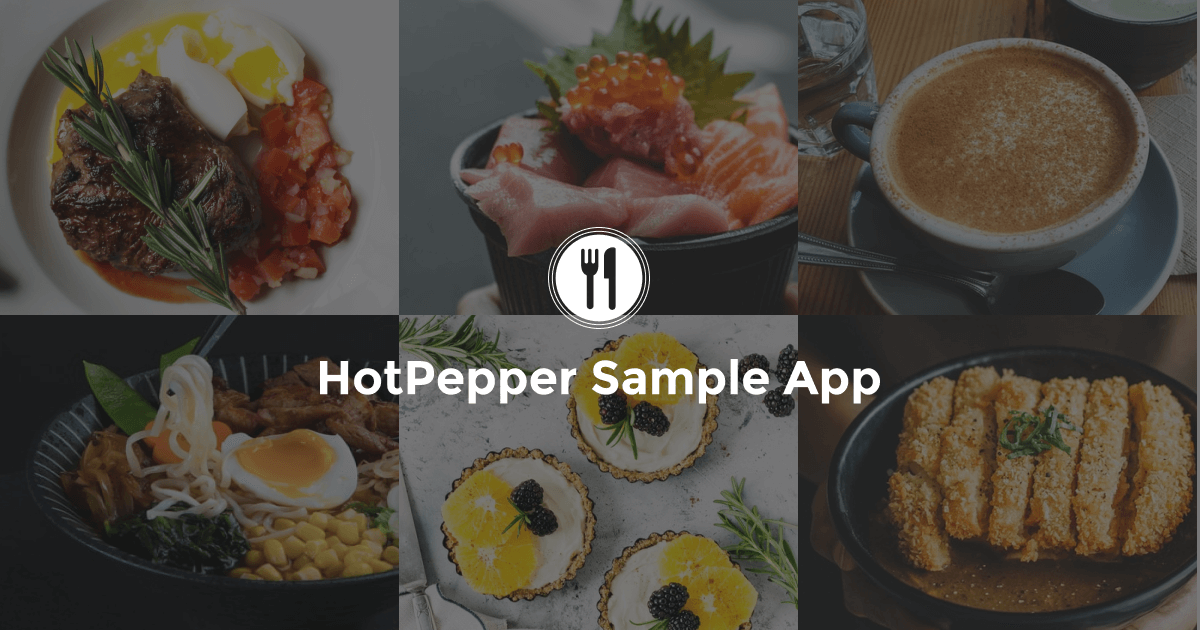
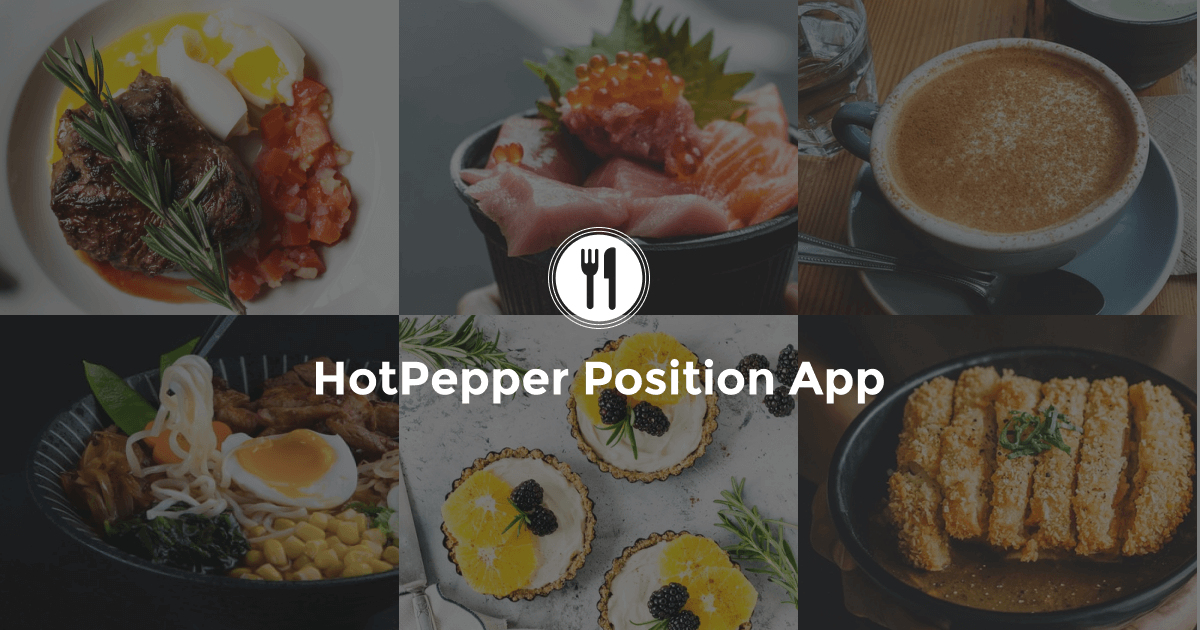
アプリ名変更

Changed region(s): [[0.2467, 0.573, 0.74, 0.6635]]

diff --git a/src/components/Atoms/Logo/index.vue b/src/components/Atoms/Logo/index.vue
@@ -1,13 +1,13 @@
 <template>
   <div :class="classes" @click="onClick">
-    <svg viewBox="0 0 572 82">
-      <path
-        d="M20.8 26.04h6.24V54H20.8V43H9.68v11H3.44V26.04h6.24v11.68H20.8V26.04zM38.109 43.24c0 1.76.493 3.2 1.48 4.32 1.013 1.093 2.293 1.64 3.84 1.64 1.573 0 2.853-.547 3.84-1.64 1.013-1.12 1.52-2.56 1.52-4.32 0-1.76-.507-3.2-1.52-4.32-.987-1.12-2.267-1.68-3.84-1.68-1.547 0-2.827.56-3.84 1.68-.987 1.12-1.48 2.56-1.48 4.32zm16.72 0c0 3.12-1.08 5.747-3.24 7.88s-4.88 3.2-8.16 3.2c-3.254 0-5.96-1.067-8.12-3.2-2.16-2.133-3.24-4.76-3.24-7.88s1.08-5.747 3.24-7.88c2.16-2.16 4.866-3.24 8.12-3.24 3.28 0 6 1.08 8.16 3.24 2.16 2.133 3.24 4.76 3.24 7.88zM66.055 36.8v9.64c0 .827.213 1.48.64 1.96.426.453.933.68 1.52.68 1.12 0 2.066-.507 2.84-1.52l2.24 4.2c-1.867 1.707-3.84 2.56-5.92 2.56-2.054 0-3.8-.68-5.24-2.04-1.414-1.36-2.12-3.213-2.12-5.56V36.8h-2.52v-4.32h2.52v-6.44h6.04v6.44h5.2v4.32h-5.2zM86.992 26.04c4.293 0 7.413.84 9.36 2.52 1.973 1.653 2.96 4.213 2.96 7.68 0 3.44-1.013 5.96-3.04 7.56-2 1.6-5.067 2.4-9.2 2.4h-3.72V54h-6.24V26.04h9.88zm.56 14.76c2.08 0 3.493-.413 4.24-1.24.746-.853 1.12-2.08 1.12-3.68 0-1.627-.494-2.773-1.48-3.44-.96-.693-2.467-1.04-4.52-1.04h-3.56v9.4h4.2zM122.222 50.88c-2.426 2.293-5.28 3.44-8.56 3.44-3.253 0-5.946-1-8.08-3-2.133-2.027-3.2-4.733-3.2-8.12 0-3.387 1.08-6.08 3.24-8.08 2.187-2 4.76-3 7.72-3s5.467.893 7.52 2.68c2.08 1.787 3.12 4.24 3.12 7.36v3.2h-15.68c.187 1.173.8 2.133 1.84 2.88 1.04.747 2.214 1.12 3.52 1.12 2.107 0 3.84-.707 5.2-2.12l3.36 3.64zm-4.32-9.8c-.133-1.28-.613-2.267-1.44-2.96-.826-.693-1.84-1.04-3.04-1.04-1.173 0-2.253.36-3.24 1.08-.986.72-1.56 1.693-1.72 2.92h9.44zM140.829 32.12c2.506 0 4.733 1.053 6.68 3.16 1.973 2.08 2.96 4.707 2.96 7.88s-.987 5.827-2.96 7.96c-1.947 2.133-4.24 3.2-6.88 3.2-2.614 0-4.72-1.053-6.32-3.16v10.6h-6V32.48h6v2.4c1.84-1.84 4.013-2.76 6.52-2.76zm-6.6 11.16c0 1.733.48 3.16 1.44 4.28.986 1.093 2.173 1.64 3.56 1.64 1.386 0 2.6-.547 3.64-1.64 1.04-1.12 1.56-2.547 1.56-4.28s-.507-3.187-1.52-4.36c-1.014-1.173-2.227-1.76-3.64-1.76-1.414 0-2.614.587-3.6 1.76-.96 1.147-1.44 2.6-1.44 4.36zM167.469 32.12c2.507 0 4.734 1.053 6.68 3.16 1.974 2.08 2.96 4.707 2.96 7.88s-.986 5.827-2.96 7.96c-1.946 2.133-4.24 3.2-6.88 3.2-2.613 0-4.72-1.053-6.32-3.16v10.6h-6V32.48h6v2.4c1.84-1.84 4.014-2.76 6.52-2.76zm-6.6 11.16c0 1.733.48 3.16 1.44 4.28.987 1.093 2.174 1.64 3.56 1.64 1.387 0 2.6-.547 3.64-1.64 1.04-1.12 1.56-2.547 1.56-4.28s-.506-3.187-1.52-4.36c-1.013-1.173-2.226-1.76-3.64-1.76-1.413 0-2.613.587-3.6 1.76-.96 1.147-1.44 2.6-1.44 4.36zM200.23 50.88c-2.427 2.293-5.28 3.44-8.56 3.44-3.253 0-5.947-1-8.08-3-2.133-2.027-3.2-4.733-3.2-8.12 0-3.387 1.08-6.08 3.24-8.08 2.187-2 4.76-3 7.72-3s5.467.893 7.52 2.68c2.08 1.787 3.12 4.24 3.12 7.36v3.2h-15.68c.187 1.173.8 2.133 1.84 2.88 1.04.747 2.213 1.12 3.52 1.12 2.107 0 3.84-.707 5.2-2.12l3.36 3.64zm-4.32-9.8c-.133-1.28-.613-2.267-1.44-2.96-.827-.693-1.84-1.04-3.04-1.04-1.173 0-2.253.36-3.24 1.08-.987.72-1.56 1.693-1.72 2.92h9.44zM217.637 37.76c-1.787 0-3.12.64-4 1.92-.88 1.253-1.32 2.92-1.32 5V54h-6V32.48h6v2.84c.773-.88 1.733-1.627 2.88-2.24 1.173-.613 2.36-.933 3.56-.96l.04 5.64h-1.16zM242.909 30.88c-1.04 0-1.867.253-2.48.76-.587.48-.88 1.133-.88 1.96 0 .8.36 1.44 1.08 1.92.746.48 2.44 1.053 5.08 1.72 2.666.64 4.733 1.613 6.2 2.92 1.466 1.307 2.2 3.213 2.2 5.72 0 2.507-.947 4.547-2.84 6.12-1.867 1.547-4.334 2.32-7.4 2.32-4.427 0-8.414-1.64-11.96-4.92l3.72-4.56c3.013 2.64 5.8 3.96 8.36 3.96 1.146 0 2.04-.24 2.68-.72.666-.507 1-1.173 1-2 0-.853-.347-1.52-1.04-2-.694-.507-2.067-1.013-4.12-1.52-3.254-.773-5.64-1.773-7.16-3-1.494-1.253-2.24-3.2-2.24-5.84 0-2.667.946-4.72 2.84-6.16 1.92-1.44 4.306-2.16 7.16-2.16 1.866 0 3.733.32 5.6.96 1.866.64 3.493 1.547 4.88 2.72l-3.16 4.56c-2.427-1.84-4.934-2.76-7.52-2.76zM277.097 54h-5.64v-2.6c-1.547 1.947-3.467 2.92-5.76 2.92-2.267 0-4.174-.653-5.72-1.96-1.547-1.333-2.32-3.093-2.32-5.28 0-2.213.8-3.867 2.4-4.96 1.6-1.093 3.786-1.64 6.56-1.64h4.48v-.12c0-2.293-1.214-3.44-3.64-3.44-1.04 0-2.147.213-3.32.64-1.147.4-2.12.907-2.92 1.52l-2.68-3.88c2.826-2.053 6.053-3.08 9.68-3.08 2.613 0 4.746.653 6.4 1.96 1.653 1.307 2.48 3.373 2.48 6.2V54zm-6.04-8.2v-1.04h-3.76c-2.4 0-3.6.747-3.6 2.24 0 .773.28 1.373.84 1.8.586.4 1.413.6 2.48.6 1.066 0 2-.32 2.8-.96.826-.667 1.24-1.547 1.24-2.64zM302.327 42.4V54h-6.04V42.24c0-1.707-.267-2.96-.8-3.76-.507-.8-1.347-1.2-2.52-1.2-1.147 0-2.174.44-3.08 1.32-.88.853-1.32 2.12-1.32 3.8V54h-6V32.48h6v2.44c1.653-1.867 3.546-2.8 5.68-2.8 1.36 0 2.586.4 3.68 1.2 1.12.8 1.96 1.773 2.52 2.92a8.476 8.476 0 013.32-3.04c1.413-.72 2.826-1.08 4.24-1.08 2.533 0 4.573.76 6.12 2.28 1.546 1.493 2.32 3.667 2.32 6.52V54h-6.04V42.24c0-3.307-1.214-4.96-3.64-4.96-1.2 0-2.24.44-3.12 1.32-.88.853-1.32 2.12-1.32 3.8zM334.422 32.12c2.507 0 4.734 1.053 6.681 3.16 1.973 2.08 2.959 4.707 2.959 7.88s-.986 5.827-2.959 7.96c-1.947 2.133-4.24 3.2-6.88 3.2-2.614 0-4.721-1.053-6.321-3.16v10.6h-6V32.48h6v2.4c1.84-1.84 4.014-2.76 6.52-2.76zm-6.599 11.16c0 1.733.48 3.16 1.44 4.28.986 1.093 2.173 1.64 3.56 1.64 1.386 0 2.599-.547 3.639-1.64 1.04-1.12 1.56-2.547 1.56-4.28s-.506-3.187-1.519-4.36c-1.014-1.173-2.227-1.76-3.641-1.76-1.413 0-2.613.587-3.599 1.76-.96 1.147-1.44 2.6-1.44 4.36zM354.543 54h-6V24.32h6V54zM378.863 50.88c-2.427 2.293-5.28 3.44-8.56 3.44-3.254 0-5.947-1-8.08-3-2.134-2.027-3.2-4.733-3.2-8.12 0-3.387 1.08-6.08 3.24-8.08 2.186-2 4.76-3 7.72-3s5.466.893 7.52 2.68c2.08 1.787 3.12 4.24 3.12 7.36v3.2h-15.68c.186 1.173.8 2.133 1.84 2.88 1.04.747 2.213 1.12 3.52 1.12 2.106 0 3.84-.707 5.2-2.12l3.36 3.64zm-4.32-9.8c-.134-1.28-.614-2.267-1.44-2.96-.827-.693-1.84-1.04-3.04-1.04-1.174 0-2.254.36-3.24 1.08-.987.72-1.56 1.693-1.72 2.92h9.44zM416.016 54l-2.6-6.04h-11.72l-2.6 6.04h-6.64l12.08-27.96h6.04L422.656 54h-6.64zm-8.44-19.64l-3.52 8.12h7l-3.48-8.12zM437.821 32.12c2.507 0 4.733 1.053 6.68 3.16 1.973 2.08 2.96 4.707 2.96 7.88s-.987 5.827-2.96 7.96c-1.947 2.133-4.24 3.2-6.88 3.2-2.613 0-4.72-1.053-6.32-3.16v10.6h-6V32.48h6v2.4c1.84-1.84 4.013-2.76 6.52-2.76zm-6.6 11.16c0 1.733.48 3.16 1.44 4.28.987 1.093 2.173 1.64 3.56 1.64s2.6-.547 3.64-1.64c1.04-1.12 1.56-2.547 1.56-4.28s-.507-3.187-1.52-4.36c-1.013-1.173-2.227-1.76-3.64-1.76-1.413 0-2.613.587-3.6 1.76-.96 1.147-1.44 2.6-1.44 4.36zM464.462 32.12c2.506 0 4.733 1.053 6.68 3.16 1.973 2.08 2.96 4.707 2.96 7.88s-.987 5.827-2.96 7.96c-1.947 2.133-4.24 3.2-6.88 3.2-2.614 0-4.72-1.053-6.32-3.16v10.6h-6V32.48h6v2.4c1.84-1.84 4.013-2.76 6.52-2.76zm-6.6 11.16c0 1.733.48 3.16 1.44 4.28.986 1.093 2.173 1.64 3.56 1.64 1.386 0 2.6-.547 3.64-1.64 1.04-1.12 1.56-2.547 1.56-4.28s-.507-3.187-1.52-4.36c-1.014-1.173-2.227-1.76-3.64-1.76-1.414 0-2.614.587-3.6 1.76-.96 1.147-1.44 2.6-1.44 4.36z"
-      />
+    <svg viewBox="0 0 569 64">
       <path
         fill-rule="evenodd"
         clip-rule="evenodd"
-        d="M532 79c21.539 0 39-17.46 39-39S553.539 1 532 1s-39 17.46-39 39 17.461 39 39 39zm0 1c22.091 0 40-17.909 40-40S554.091 0 532 0s-40 17.909-40 40 17.909 40 40 40zm0-4c19.882 0 36-16.118 36-36S551.882 4 532 4s-36 16.118-36 36 16.118 36 36 36zm0 1c20.435 0 37-16.566 37-37S552.435 3 532 3s-37 16.566-37 37 16.565 37 37 37zm34-37c0 18.778-15.222 34-34 34s-34-15.222-34-34 15.222-34 34-34 34 15.222 34 34zm-26.345.362h-3.072a.648.648 0 01-.475-.2.65.65 0 01-.201-.477V22.767c0-1.86.663-3.454 1.988-4.78 1.325-1.324 2.918-1.987 4.779-1.987h.973c.366 0 .683.134.951.402.268.268.402.586.402.951v44.939c0 .733-.268 1.367-.804 1.903-.527.527-1.151.792-1.869.8-.718-.008-1.341-.273-1.869-.8-.535-.535-.803-1.17-.803-1.903v-21.93zm-17.283 21.374V37.904c-.804-.282-4.372-1.918-4.372-8.127V18.464c0-.366.134-.683.402-.952.267-.267.584-.402.951-.402s.684.135.952.402c.268.268.402.586.402.952v8.797c0 .366.133.684.402.951.267.269.584.402.951.402.366 0 .683-.133.952-.402.267-.267.401-.584.401-.951v-8.797c0-.366.134-.683.402-.952.268-.267.585-.402.952-.402a1.3 1.3 0 01.951.402c.268.268.402.586.402.952v8.797c0 .366.135.684.402.951a1.3 1.3 0 00.952.402 1.3 1.3 0 00.951-.402 1.3 1.3 0 00.402-.951v-8.797c0-.366.134-.683.402-.952.267-.267.584-.402.951-.402.366 0 .684.135.952.402.267.268.402.586.402.952v11.314c0 6.1-3.013 7.845-3.817 8.126v23.832c0 .734-.268 1.368-.803 1.904-.528.527-1.152.792-1.869.8-.719-.008-1.342-.273-1.869-.8-.536-.536-.804-1.17-.804-1.904z"
+        d="M32 63.2c17.231 0 31.2-13.969 31.2-31.2S49.231.8 32 .8.8 14.769.8 32 14.769 63.2 32 63.2zm0 .8c17.673 0 32-14.327 32-32C64 14.327 49.673 0 32 0 14.327 0 0 14.327 0 32c0 17.673 14.327 32 32 32zm0-3.2c15.906 0 28.8-12.894 28.8-28.8S47.906 3.2 32 3.2 3.2 16.094 3.2 32 16.094 60.8 32 60.8zm0 .8c16.348 0 29.6-13.252 29.6-29.6S48.348 2.4 32 2.4 2.4 15.652 2.4 32 15.652 61.6 32 61.6zM59.2 32c0 15.022-12.178 27.2-27.2 27.2C16.978 59.2 4.8 47.022 4.8 32 4.8 16.978 16.978 4.8 32 4.8c15.022 0 27.2 12.178 27.2 27.2zm-21.076.29h-2.458a.519.519 0 01-.38-.161.52.52 0 01-.16-.38V18.213c0-1.489.53-2.763 1.59-3.824 1.06-1.06 2.334-1.59 3.823-1.59h.779c.293 0 .546.107.76.321.215.215.322.469.322.762v35.95c0 .587-.214 1.095-.643 1.523a2.082 2.082 0 01-1.495.64 2.08 2.08 0 01-1.495-.64 2.08 2.08 0 01-.643-1.523V32.29zm-13.826 17.1V30.322c-.643-.226-3.498-1.534-3.498-6.501V14.77c0-.293.107-.546.322-.761a1.04 1.04 0 01.76-.322c.294 0 .548.108.762.322.214.214.321.468.321.76v7.039c0 .293.107.547.322.761.214.215.468.321.761.321s.547-.106.761-.321a1.04 1.04 0 00.322-.761V14.77c0-.293.107-.546.321-.761a1.04 1.04 0 01.761-.322c.293 0 .547.108.762.322.214.214.321.468.321.76v7.039c0 .293.108.547.322.761.214.215.467.321.76.321.294 0 .547-.106.762-.321a1.04 1.04 0 00.322-.761V14.77c0-.293.107-.546.321-.761a1.04 1.04 0 01.761-.322c.293 0 .547.108.761.322.215.214.322.468.322.76v9.052c0 4.881-2.41 6.276-3.054 6.501V49.39a2.08 2.08 0 01-.642 1.523 2.081 2.081 0 01-1.495.64 2.079 2.079 0 01-1.495-.64 2.08 2.08 0 01-.643-1.523z"
+      />
+      <path
+        d="M101.36 15.3h6.24v27.96h-6.24v-11H90.24v11H84V15.3h6.24v11.68h11.12V15.3zM118.669 32.5c0 1.76.493 3.2 1.48 4.32 1.013 1.093 2.293 1.64 3.84 1.64 1.573 0 2.853-.547 3.84-1.64 1.013-1.12 1.52-2.56 1.52-4.32 0-1.76-.507-3.2-1.52-4.32-.987-1.12-2.267-1.68-3.84-1.68-1.547 0-2.827.56-3.84 1.68-.987 1.12-1.48 2.56-1.48 4.32zm16.72 0c0 3.12-1.08 5.747-3.24 7.88s-4.88 3.2-8.16 3.2c-3.254 0-5.96-1.067-8.12-3.2-2.16-2.133-3.24-4.76-3.24-7.88s1.08-5.747 3.24-7.88c2.16-2.16 4.866-3.24 8.12-3.24 3.28 0 6 1.08 8.16 3.24 2.16 2.133 3.24 4.76 3.24 7.88zM146.615 26.06v9.64c0 .827.213 1.48.64 1.96.426.453.933.68 1.52.68 1.12 0 2.066-.507 2.84-1.52l2.24 4.2c-1.867 1.707-3.84 2.56-5.92 2.56-2.054 0-3.8-.68-5.24-2.04-1.414-1.36-2.12-3.213-2.12-5.56v-9.92h-2.52v-4.32h2.52V15.3h6.04v6.44h5.2v4.32h-5.2zM167.552 15.3c4.293 0 7.413.84 9.36 2.52 1.973 1.653 2.96 4.213 2.96 7.68 0 3.44-1.013 5.96-3.04 7.56-2 1.6-5.067 2.4-9.2 2.4h-3.72v7.8h-6.24V15.3h9.88zm.56 14.76c2.08 0 3.493-.413 4.24-1.24.747-.853 1.12-2.08 1.12-3.68 0-1.627-.493-2.773-1.48-3.44-.96-.693-2.467-1.04-4.52-1.04h-3.56v9.4h4.2zM202.782 40.14c-2.426 2.293-5.28 3.44-8.56 3.44-3.253 0-5.946-1-8.08-3-2.133-2.027-3.2-4.733-3.2-8.12 0-3.387 1.08-6.08 3.24-8.08 2.187-2 4.76-3 7.72-3s5.467.893 7.52 2.68c2.08 1.787 3.12 4.24 3.12 7.36v3.2h-15.68c.187 1.173.8 2.133 1.84 2.88 1.04.747 2.214 1.12 3.52 1.12 2.107 0 3.84-.707 5.2-2.12l3.36 3.64zm-4.32-9.8c-.133-1.28-.613-2.267-1.44-2.96-.826-.693-1.84-1.04-3.04-1.04-1.173 0-2.253.36-3.24 1.08-.986.72-1.56 1.693-1.72 2.92h9.44zM221.389 21.38c2.506 0 4.733 1.053 6.68 3.16 1.973 2.08 2.96 4.707 2.96 7.88s-.987 5.827-2.96 7.96c-1.947 2.133-4.24 3.2-6.88 3.2-2.614 0-4.72-1.053-6.32-3.16v10.6h-6V21.74h6v2.4c1.84-1.84 4.013-2.76 6.52-2.76zm-6.6 11.16c0 1.733.48 3.16 1.44 4.28.986 1.093 2.173 1.64 3.56 1.64 1.386 0 2.6-.547 3.64-1.64 1.04-1.12 1.56-2.547 1.56-4.28s-.507-3.187-1.52-4.36c-1.014-1.173-2.227-1.76-3.64-1.76-1.414 0-2.614.587-3.6 1.76-.96 1.147-1.44 2.6-1.44 4.36zM248.029 21.38c2.507 0 4.734 1.053 6.68 3.16 1.974 2.08 2.96 4.707 2.96 7.88s-.986 5.827-2.96 7.96c-1.946 2.133-4.24 3.2-6.88 3.2-2.613 0-4.72-1.053-6.32-3.16v10.6h-6V21.74h6v2.4c1.84-1.84 4.014-2.76 6.52-2.76zm-6.6 11.16c0 1.733.48 3.16 1.44 4.28.987 1.093 2.174 1.64 3.56 1.64 1.387 0 2.6-.547 3.64-1.64 1.04-1.12 1.56-2.547 1.56-4.28s-.506-3.187-1.52-4.36c-1.013-1.173-2.226-1.76-3.64-1.76-1.413 0-2.613.587-3.6 1.76-.96 1.147-1.44 2.6-1.44 4.36zM280.79 40.14c-2.427 2.293-5.28 3.44-8.56 3.44-3.253 0-5.947-1-8.08-3-2.133-2.027-3.2-4.733-3.2-8.12 0-3.387 1.08-6.08 3.24-8.08 2.187-2 4.76-3 7.72-3s5.467.893 7.52 2.68c2.08 1.787 3.12 4.24 3.12 7.36v3.2h-15.68c.187 1.173.8 2.133 1.84 2.88 1.04.747 2.213 1.12 3.52 1.12 2.107 0 3.84-.707 5.2-2.12l3.36 3.64zm-4.32-9.8c-.133-1.28-.613-2.267-1.44-2.96-.827-.693-1.84-1.04-3.04-1.04-1.173 0-2.253.36-3.24 1.08-.987.72-1.56 1.693-1.72 2.92h9.44zM298.197 27.02c-1.787 0-3.12.64-4 1.92-.88 1.253-1.32 2.92-1.32 5v9.32h-6V21.74h6v2.84c.773-.88 1.733-1.627 2.88-2.24 1.173-.613 2.36-.933 3.56-.96l.04 5.64h-1.16zM324.349 15.3c4.293 0 7.413.84 9.36 2.52 1.973 1.653 2.96 4.213 2.96 7.68 0 3.44-1.014 5.96-3.04 7.56-2 1.6-5.067 2.4-9.2 2.4h-3.72v7.8h-6.24V15.3h9.88zm.56 14.76c2.08 0 3.493-.413 4.24-1.24.746-.853 1.12-2.08 1.12-3.68 0-1.627-.494-2.773-1.48-3.44-.96-.693-2.467-1.04-4.52-1.04h-3.56v9.4h4.2zM345.466 32.5c0 1.76.493 3.2 1.48 4.32 1.013 1.093 2.293 1.64 3.84 1.64 1.573 0 2.853-.547 3.84-1.64 1.013-1.12 1.52-2.56 1.52-4.32 0-1.76-.507-3.2-1.52-4.32-.987-1.12-2.267-1.68-3.84-1.68-1.547 0-2.827.56-3.84 1.68-.987 1.12-1.48 2.56-1.48 4.32zm16.72 0c0 3.12-1.08 5.747-3.24 7.88s-4.88 3.2-8.16 3.2c-3.254 0-5.96-1.067-8.12-3.2-2.16-2.133-3.24-4.76-3.24-7.88s1.08-5.747 3.24-7.88c2.16-2.16 4.866-3.24 8.12-3.24 3.28 0 6 1.08 8.16 3.24 2.16 2.133 3.24 4.76 3.24 7.88zM382.647 36.58c0 2.107-.787 3.8-2.36 5.08-1.547 1.28-3.52 1.92-5.92 1.92-1.6 0-3.267-.28-5-.84a15.081 15.081 0 01-4.68-2.56l2.64-3.76c2.24 1.733 4.627 2.6 7.16 2.6.773 0 1.387-.147 1.84-.44.453-.32.68-.733.68-1.24s-.32-.973-.96-1.4c-.613-.427-1.52-.827-2.72-1.2-1.173-.373-2.08-.693-2.72-.96-.613-.267-1.32-.653-2.12-1.16-1.627-1.013-2.44-2.507-2.44-4.48 0-2 .8-3.627 2.4-4.88 1.6-1.253 3.667-1.88 6.2-1.88 2.533 0 5.067.853 7.6 2.56l-2.24 4c-1.867-1.28-3.733-1.92-5.6-1.92-1.84 0-2.76.507-2.76 1.52 0 .56.293 1 .88 1.32.587.32 1.56.693 2.92 1.12 1.36.427 2.32.76 2.88 1 .587.213 1.28.56 2.08 1.04 1.493.907 2.24 2.427 2.24 4.56zM393.228 43.26h-6V21.74h6v21.52zm-5.52-24.24c-.667-.693-1-1.533-1-2.52 0-.987.333-1.813 1-2.48.693-.693 1.533-1.04 2.52-1.04.987 0 1.813.347 2.48 1.04.693.667 1.04 1.493 1.04 2.48 0 .987-.347 1.827-1.04 2.52-.667.667-1.493 1-2.48 1-.987 0-1.827-.333-2.52-1zM406.068 26.06v9.64c0 .827.213 1.48.64 1.96.426.453.933.68 1.52.68 1.12 0 2.066-.507 2.84-1.52l2.24 4.2c-1.867 1.707-3.84 2.56-5.92 2.56-2.054 0-3.8-.68-5.24-2.04-1.414-1.36-2.12-3.213-2.12-5.56v-9.92h-2.52v-4.32h2.52V15.3h6.04v6.44h5.2v4.32h-5.2zM422.525 43.26h-6V21.74h6v21.52zm-5.52-24.24c-.667-.693-1-1.533-1-2.52 0-.987.333-1.813 1-2.48.693-.693 1.533-1.04 2.52-1.04.987 0 1.813.347 2.48 1.04.693.667 1.04 1.493 1.04 2.48 0 .987-.347 1.827-1.04 2.52-.667.667-1.493 1-2.48 1-.987 0-1.827-.333-2.52-1zM433.005 32.5c0 1.76.493 3.2 1.48 4.32 1.013 1.093 2.293 1.64 3.84 1.64 1.573 0 2.853-.547 3.84-1.64 1.013-1.12 1.52-2.56 1.52-4.32 0-1.76-.507-3.2-1.52-4.32-.987-1.12-2.267-1.68-3.84-1.68-1.547 0-2.827.56-3.84 1.68-.987 1.12-1.48 2.56-1.48 4.32zm16.72 0c0 3.12-1.08 5.747-3.24 7.88s-4.88 3.2-8.16 3.2c-3.254 0-5.96-1.067-8.12-3.2-2.16-2.133-3.24-4.76-3.24-7.88s1.08-5.747 3.24-7.88c2.16-2.16 4.866-3.24 8.12-3.24 3.28 0 6 1.08 8.16 3.24 2.16 2.133 3.24 4.76 3.24 7.88zM460.181 31.26v12h-6V21.74h6v2.4c1.814-1.84 3.854-2.76 6.12-2.76 2.267 0 4.16.8 5.68 2.4 1.547 1.6 2.32 3.733 2.32 6.4v13.08h-6V31.1c0-3.307-1.213-4.96-3.64-4.96-1.2 0-2.253.44-3.16 1.32-.88.853-1.32 2.12-1.32 3.8zM510.795 43.26l-2.6-6.04h-11.72l-2.6 6.04h-6.64l12.08-27.96h6.04l12.08 27.96h-6.64zm-8.44-19.64l-3.52 8.12h7l-3.48-8.12zM532.6 21.38c2.506 0 4.733 1.053 6.68 3.16 1.973 2.08 2.96 4.707 2.96 7.88s-.987 5.827-2.96 7.96c-1.947 2.133-4.24 3.2-6.88 3.2-2.614 0-4.72-1.053-6.32-3.16v10.6h-6V21.74h6v2.4c1.84-1.84 4.013-2.76 6.52-2.76zM526 32.54c0 1.733.48 3.16 1.44 4.28.986 1.093 2.173 1.64 3.56 1.64 1.386 0 2.6-.547 3.64-1.64 1.04-1.12 1.56-2.547 1.56-4.28s-.507-3.187-1.52-4.36c-1.014-1.173-2.227-1.76-3.64-1.76-1.414 0-2.614.587-3.6 1.76-.96 1.147-1.44 2.6-1.44 4.36zM559.24 21.38c2.507 0 4.734 1.053 6.68 3.16 1.974 2.08 2.96 4.707 2.96 7.88s-.986 5.827-2.96 7.96c-1.946 2.133-4.24 3.2-6.88 3.2-2.613 0-4.72-1.053-6.32-3.16v10.6h-6V21.74h6v2.4c1.84-1.84 4.014-2.76 6.52-2.76zm-6.6 11.16c0 1.733.48 3.16 1.44 4.28.987 1.093 2.174 1.64 3.56 1.64 1.387 0 2.6-.547 3.64-1.64 1.04-1.12 1.56-2.547 1.56-4.28s-.506-3.187-1.52-4.36c-1.013-1.173-2.226-1.76-3.64-1.76-1.413 0-2.613.587-3.6 1.76-.96 1.147-1.44 2.6-1.44 4.36z"
       />
     </svg>
   </div>
